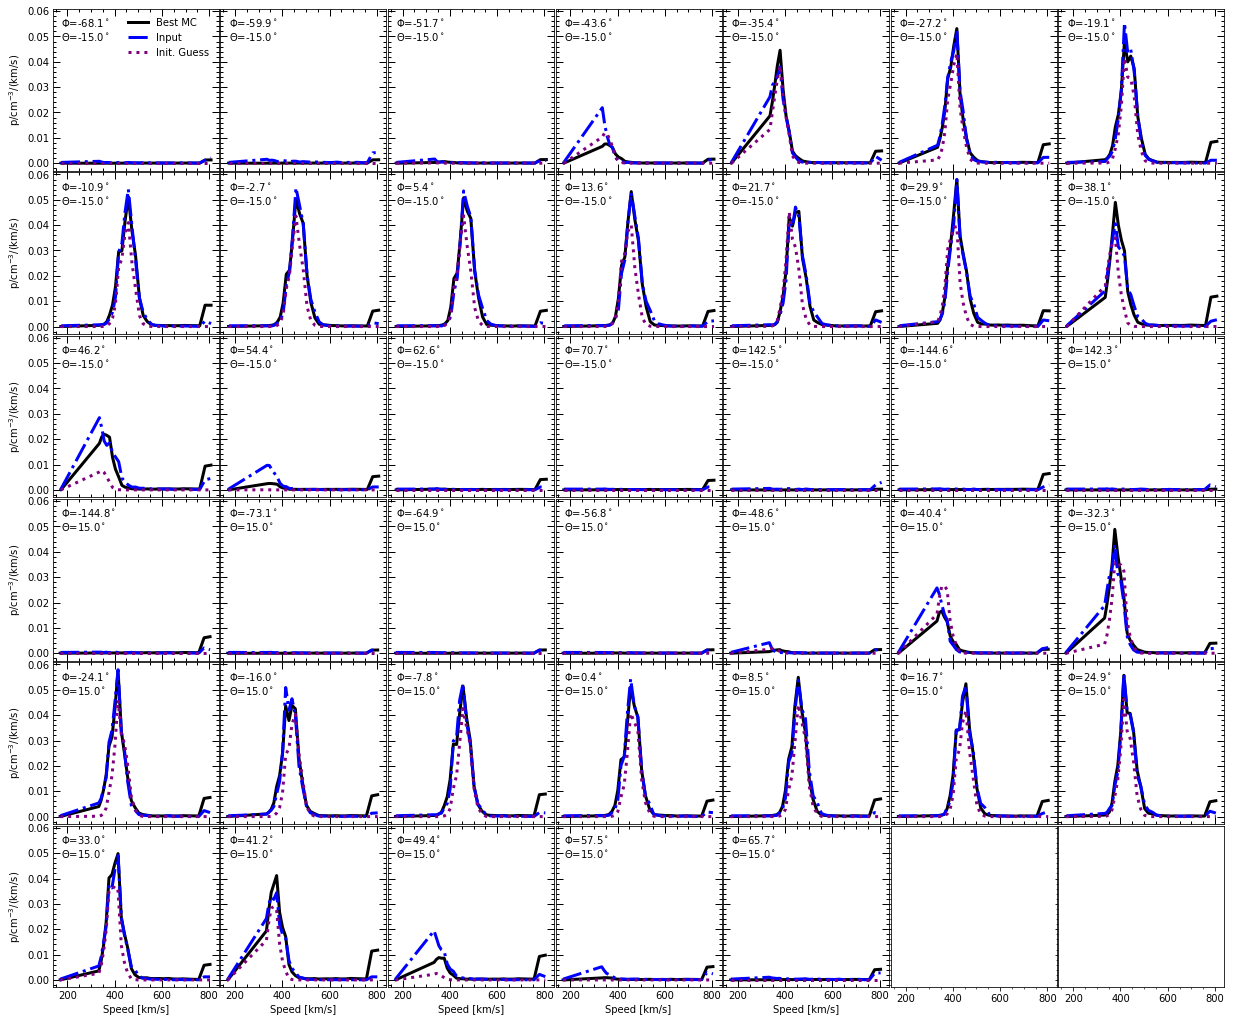
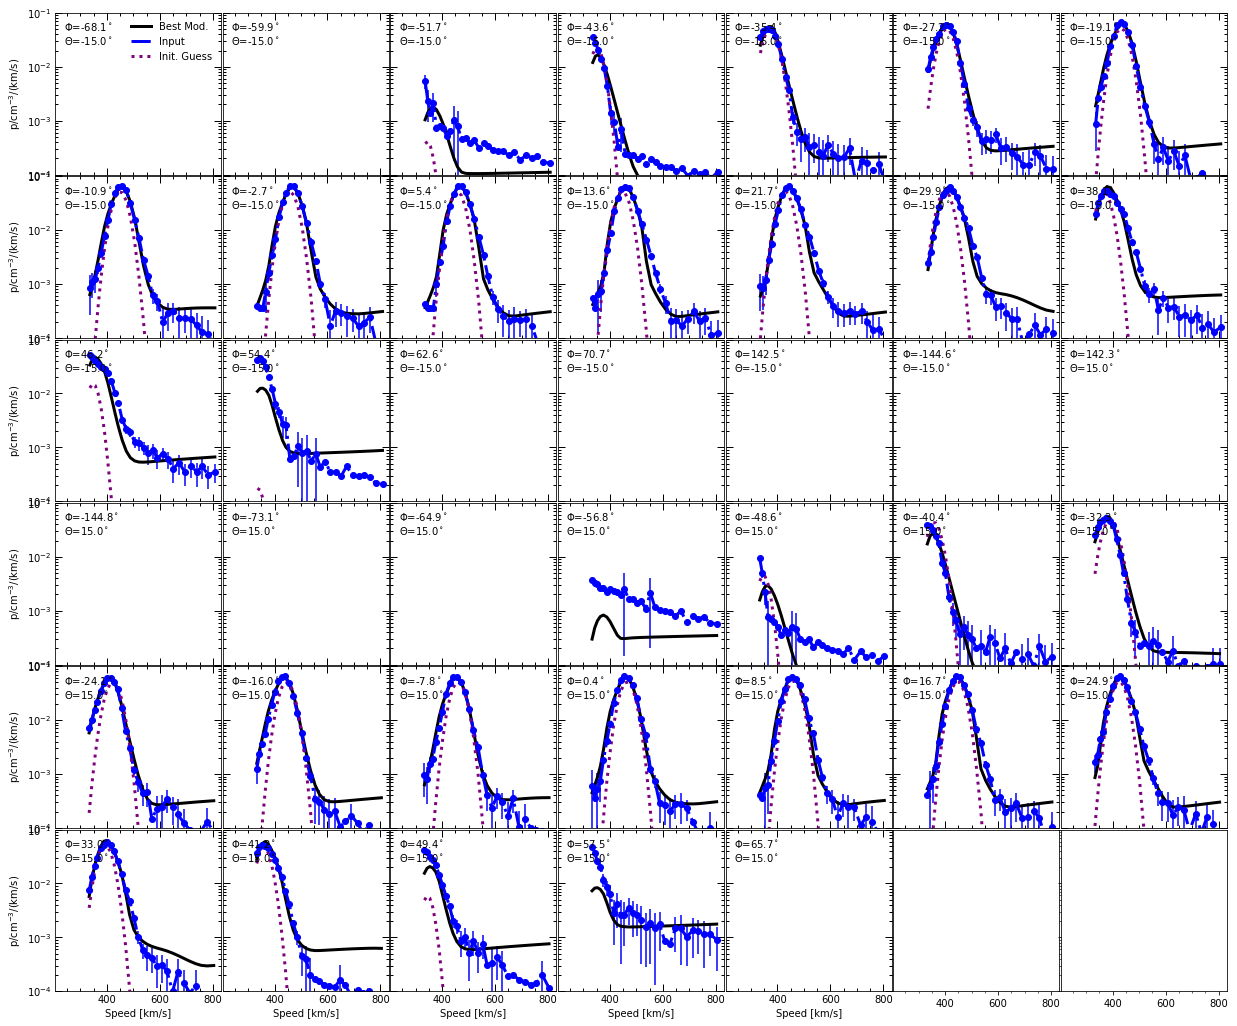
Updated to documentation

Changed region(s): [[0.0, 0.0, 1.0, 1.0], [0.8923, 0.9706, 0.9538, 1.0]]

diff --git a/docs/index.rst b/docs/index.rst
@@ -36,13 +36,20 @@ Example
 Here I will briefly describe the process for reconstructiong the 2D velocity distribution from a sampling of 1D FC velocity observations at different look angles.
 First, you will need to import the modules needed to successfully call the code. Most of which are the modules created in this code.
 
+First, you need to import the modules required to reconstruct the solar wind observations.
+
 .. code-block:: python
 
     import make_discrete_vdf as mdv
     import read_fmt_obs as rfo
     import multi_fc_functions as mff
     from scipy import optimize
+    import numpy as np
+    import time
 
+
+Next, specify a time period you are interented in reconstructing. 
+This time period needs to be in a format recognizable by the pd.to_datetime() function.
 
 .. code-block:: python
 
@@ -50,31 +57,53 @@ First, you will need to import the modules needed to successfully call the code.
     date = '2019/02/09 00:10:00'
 
 
+Once you select the time period you are interested in,
+call the module that formats observations into something that can be read by the reconstruction code suite.
+Here we will try to reconstruct a set of Wind observations.
+
 .. code-block:: python
 
     #Read in Wind spectra and parameters and format them in a way that can be used by the reconstruction program
-    fcs,vdf_inpt = rfo.fmt_wind_spec(date)
+    fcs,vdf_inpt = rfo.fmt_wind_spec(date,spec_dir='test_obs/test_wind_spectra/',parm_dir='test_obs/test_wind_spectra/')
 
+
+Now that we have the Wind observations in a nice format,
+let us go ahead and plot the observations and the single bi-maxwellian fit.
 
 .. code-block:: python
 
     #Plot the Observations of all Wind FCs and the Velocity distribution if the bi-maxwellian solution 
     #Derived by Wind for each FC
-    mff.create_fc_grid_plot(fcs)
+    mff.create_fc_grid_plot(fcs,log_plot=True,ylim=[1e-4,1e-1])
+
+.. image:: _static/fc_measurements_before_model.png
+   :alt: FC Obs. Plot
+   :align: center
+   :scale: 60%
+
+It is apparent that the bi-maxwellian leaves something to be desired,
+so let us try a different model of the solar wind.
+Specifically, let us use a Generalized Normal Distribution with a secondary peak.
 
 .. code-block:: python
 
-    #Trying a guess based on a previous failed try at fitting_wind_observation
+    #Trying a guess based on a previous failed try at fitting a Wind observation
     human_guess = [ -4.35047381e+02,  -1.35264270e+01,   7.15811005e+00,   2.51430881e+01,
                      2.70190565e+01,   2.06592978e-02,   2.81259051e+00,   2.16901722e+00,
                      3.84810371e+01,   1.06937488e+01,   4.40914378e+01,   4.85236340e+01,
                      6.79767052e-03,   1.60664033e+00,   1.78231253e+00,]                
 
 
+The first three parameters are the 
+
 .. code-block:: python
 
     #Previous observation was at a different time so adjust velocity solution
     human_guess[:3] = vdf_inpt['u_gse']
+    #Get magnetic fields from Wind CDF file that is stored in the vdf dictionary
+    b_gse = vdf_inpt['b_gse']
+    #Set the size of the VDF solution
+    vel_clip = 200. #km/s
 
 
 .. code-block:: python
@@ -85,6 +114,15 @@ First, you will need to import the modules needed to successfully call the code.
                                                       add_ring=human_guess[8:])
     #Plot what the velocity distribution looks like
     mdv.plot_vdf(dis_vdf_human)
+
+.. image:: _static/fc_p_distribution_init_guess.png
+   :alt: FC Obs. Plot
+   :align: center
+   :scale: 100%
+
+
+.. code-block:: python
+
     #measure the velocity distribution for each FC based on the input parameters
     samp = 15.
     for k,i in enumerate(fcs.keys()):
@@ -92,12 +130,14 @@ First, you will need to import the modules needed to successfully call the code.
         #updated using dynamic sampling 2018/10/12 J. Prchlik
         fcs[i]['dis_cur'] = mdv.arb_p_response(fcs[i]['x_meas'],dis_vdf_human,samp)
     
-    mff.create_fc_grid_plot(fcs)
+    #Plot the measurements with the initial guess overplotted
+    mff.create_fc_grid_plot(fcs,log_plot=True,ylim=[1e-4,1e-1])
 
-.. image:: _static/fc_measurements_before_model.png
+.. image:: _static/fc_measurements_init_guess.png
    :alt: FC Obs. Plot
    :align: center
    :scale: 60%
+
 
 .. code-block:: python
 
@@ -111,9 +151,19 @@ First, you will need to import the modules needed to successfully call the code.
                                 options={'xtol':1e-2,'ftol':1e-2,'disp':True,'maxiter':max_try,'maxfev':max_try})
     x2 = time.time()
 
+Optimization terminated successfully.
+Current function value: 0.009594
+Iterations: 3610
+Function evaluations: 4737
+
 .. code-block:: python
+
     #Total run time until convergence
     print('Total Run Time {0:7.1f} min'.format((x2-x1)/60.))
+
+
+Total Run Time   652.0 min
+
 
 .. code-block:: python
 
@@ -139,8 +189,8 @@ First, you will need to import the modules needed to successfully call the code.
 
 .. code-block:: python
 
-    #Visually compare the best fit velocity solution (Best MC), the bi-maxwell (Init. Guess), and the observations (Input)
-    mff.create_fc_grid_plot(fcs)
+    #Visually compare the best fit velocity solution (Best Mod.), the bi-maxwellian (Init. Guess), and the observations (Input)
+    mff.create_fc_grid_plot(fcs,log_plot=True,ylim=[1e-4,1e-1])
 
 
 .. image:: _static/fc_measurements.png
